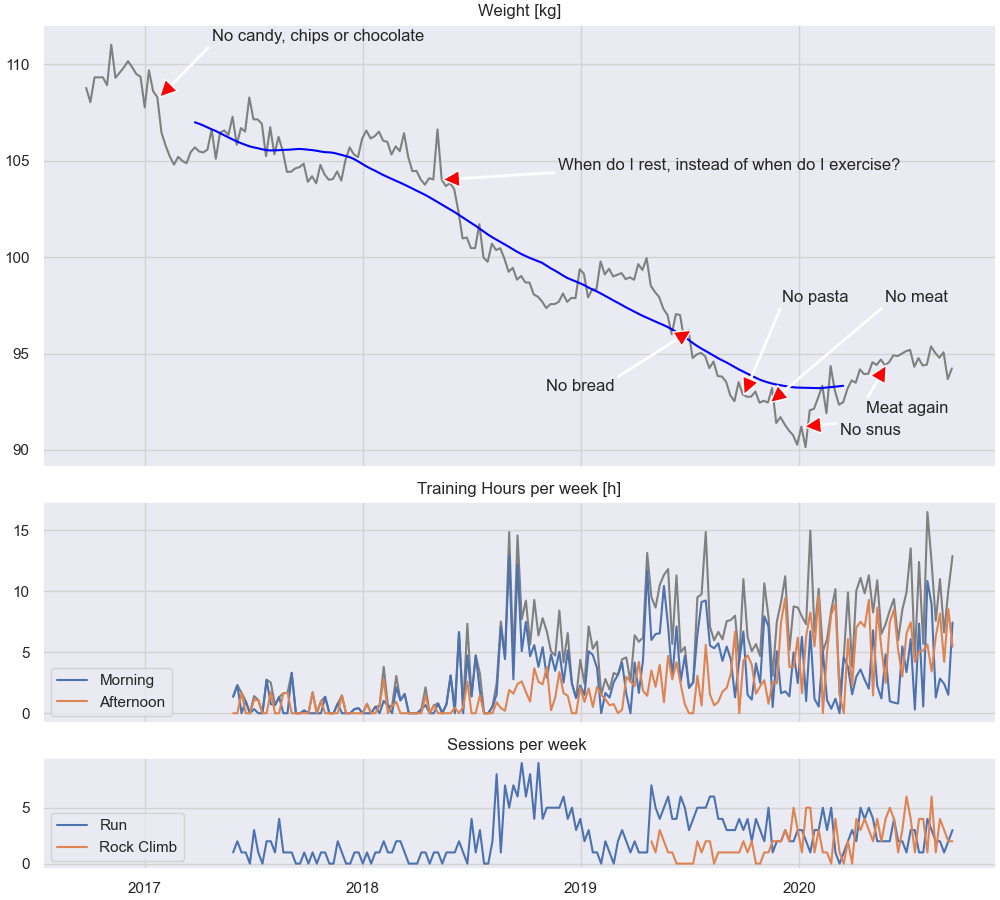
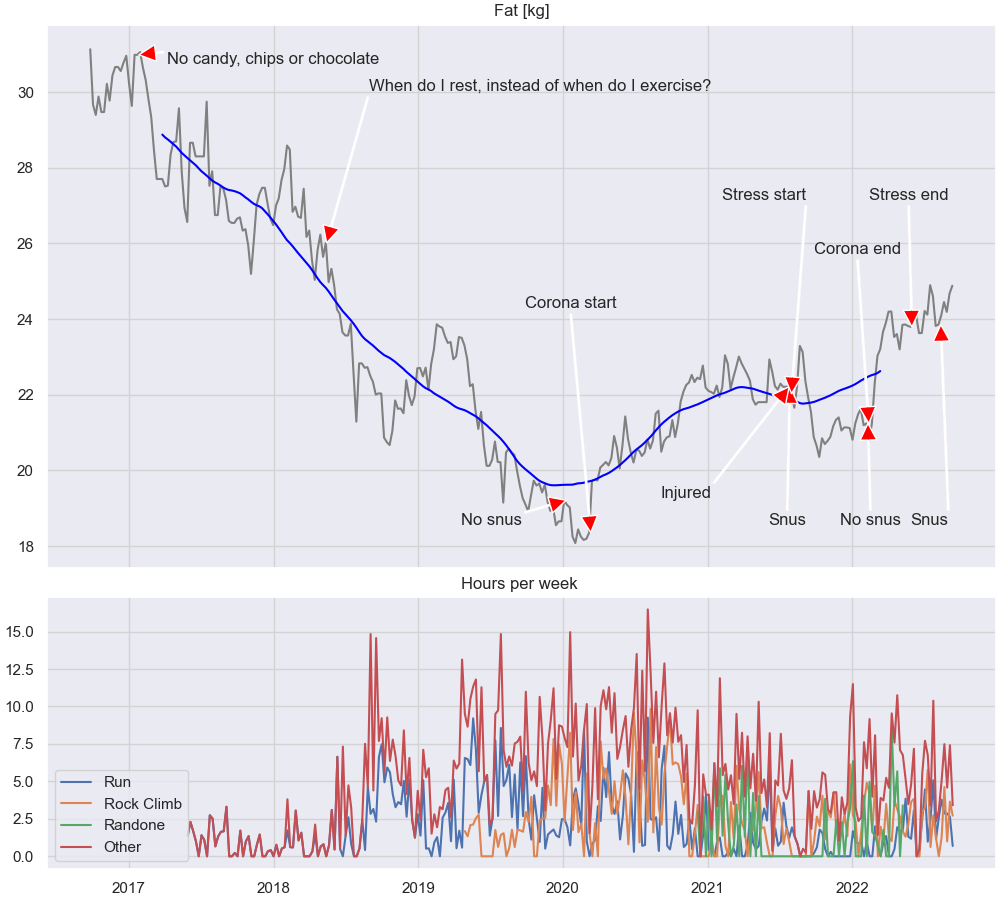
Weight update

diff --git a/pages/06.weight-loss/default.md b/pages/06.weight-loss/default.md
@@ -48,12 +48,6 @@ A few tips if your just starting out exercising:
   time I reduced intensity. I also discovered that I could, after
   about a few years, run at 65 % intensity (around 124 bpm), and then I
   could go for a long time.
-- I would strongly recommend [PAI Health](https://www.paihealth.com) , it's a
-  really good tool for measuring if you're doing enough to keep
-  healthy. Initially it was a struggle to get 100 PAI. These days, if I'm
-  training really hard it climbs up to 250 PAI, but at that intensity
-  I can only keep it going for a few weeks. Normally it hovers around
-  150 to 200 PAI (sometimes below 100, if I'm having a bad week).
 - A good thing to know, if you're in really bad shape, then every time
   you exercise will be extremely hard. Even running, in the
   beginning, was impossible for me without the heart rate climbing past 85 %
@@ -77,39 +71,48 @@ Saturday, so on 2017-01-26 I stopped eating candy, chocolate and
 chips. The effect was pretty immediate. Not only did it help on the
 weight, but I had more energy. Over the last years I've tried dropping
 different foods (bread, pasta, meat) to the point where at one point I was
-basically living on whole greens, nuts, eggs, sometimes fish. The
-funny thing, is that it was quite easy to maintain that diet, mostly because every
-time I try eating a pizza I feel like crap for a few days, basically
-like a hangover, which makes it easier to avoid things that seems bad
-for me, I simply don't want to eat them anymore.
+basically living on whole greens, nuts, eggs, sometimes fish. 
 
 I lived on that strict diet from 2019-11-14 to 2020-05-26, but it
-got too restrictive, and boring. These days I'm back to eating most things.
+got too restrictive, and boring. These days I'm back to eating most things. I
+also started eating candy again, which shows on the fat weight.
 
 ## Third how - Consistency
 The only way to make lasting changes to the weight, is to make lasting
 changes to the calorie intake, and calorie expenditure. So don't expect
 to change your weight quickly, you have to commit for the long
-run. I've had to get comfortable with that I probably never again (as
-in ever), can binge on candy, chocolate and chips, but that's OK. I
-don't really want to anymore.
+run. 
+
 
 ## Results
 I'm not done yet, but it would be fun to see if I can actually reach a
 normal BMI. For me that would be 84 kg, which would be 38.5 kg
 down from max. 84 kg seems pretty far away still, but not impossible.
 
-Below you can see my weight over the last three years. The blue curve is
-an estimate of the weight without the seasonal variation (Christmas is
-really an enemy of weight control). Also, on 2020-01-10 I removed nicotine
-intake (snus), which I believe is one of the reasons the weight jumped a bit again. That, and
-corona of-course.
+Below you can see my fat weight over the last six years. The blue curve is
+an estimate of the fat weight without the seasonal variation (Christmas is
+really an enemy of weight control). 
 
-Lately I've been wondering whether the time of day matters for weight loss.
-Based on the data, there does seem to be a correlation between time of day
-(Morning >= 12) and the weight loss. Since the beginning of 2020 I've moved more of my exercise to
-the afternoon. Of-course, there are too many variables to reliably say there is
-a causation.
+Over the last two years the fat weight has increased again, likely due to a
+combination of corona, injury, and a period of high stress, which, I believe has
+reduced my ability to stick to a reduced calorie intake.
+In July 2021 I took a ground fall while top-rope soloing, which by 2022-09 still is
+not fully healed, so long runs are a challenge. In August 2021 I started
+teaching at univerisity and was working most evenings and most weekends. I've
+had high stress periods before, but they affected my emotional control. In 2021 I
+experienced for the first time that the increased stress affected my ability to
+consume food. I had to drop gluten, everything with milk, and could not touch
+alcohol. I've been without high stress since June 2022, and am now able to
+consume milk and alcohol without the body falling apart, but I do still have to
+ensure that I get enough rest, and the energy levels decline quickly through a
+work week. 
+
+It's ironic that I preach to my employees that "It's important to find a work
+life balance, because that's when the brain works best", and I'm not the best to
+follow my own preaching. 
+
+Lately I've been focusing on rest, exercise and enough sleep, Let's see if the fat weight drops again. 
+
 
 ![Weight](weight.png)
 
